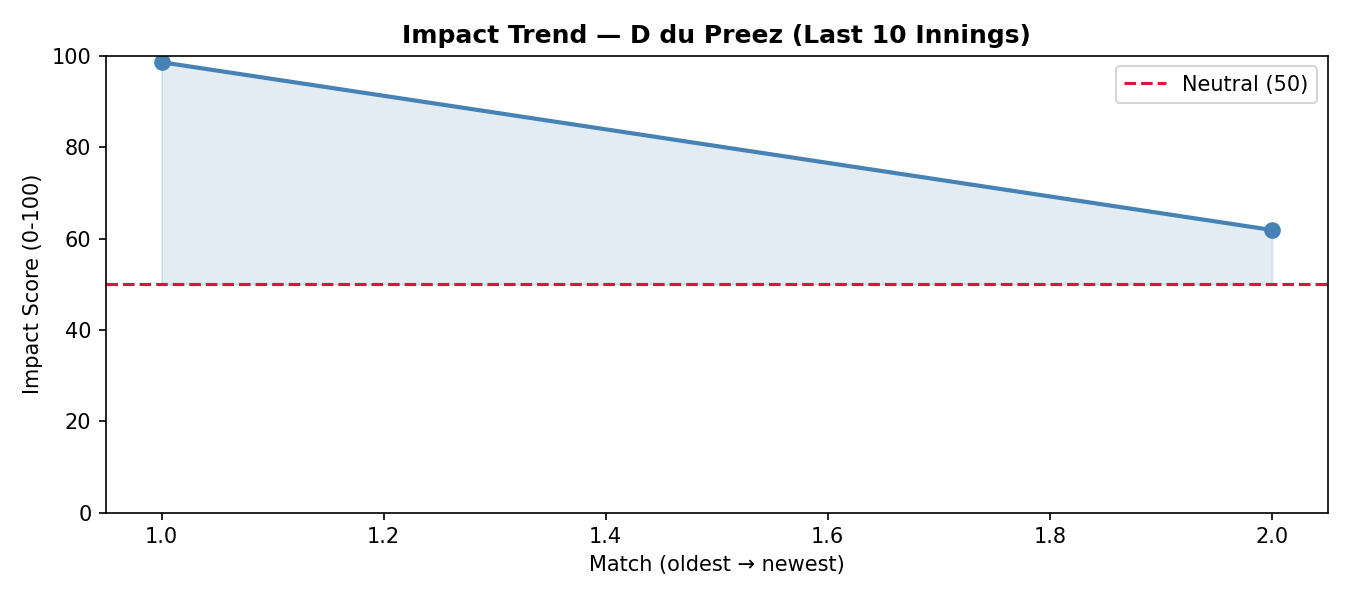
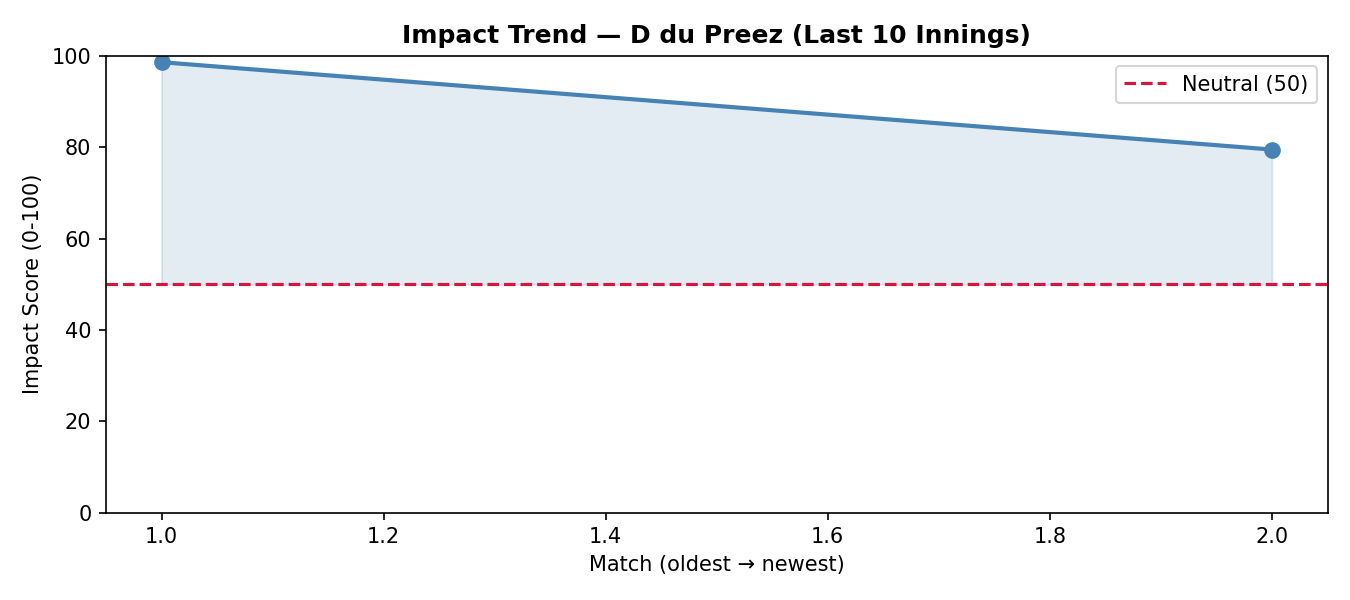
fixed ML

Changed region(s): [[0.1244, 0.09, 0.9644, 0.39]]

diff --git a/ML/src/performance.py b/ML/src/performance.py
@@ -82,26 +82,25 @@ def compute_performance(df):
             bat_df['runs'] / np.maximum(bat_df['balls_faced'], 1)
         ) * 100
 
-        bat_df['runs_contribution'] = (
-            bat_df['runs'] / bat_df['innings_total']
-        ).fillna(0)
-
-        bat_df['SR_Impact']       = np.clip(bat_df['strike_rate'] / 130, 0, 2)
-        bat_df['Boundary_Impact'] = np.clip(bat_df['boundaries']  / 5,   0, 2)
+        # Normalize metrics so an "average" performance equals around 1.0
+        # Average runs ~ 30, average SR ~ 135, average boundaries ~ 4
+        bat_df['Runs_Impact']     = np.clip(bat_df['runs'] / 30, 0, 2.5)
+        bat_df['SR_Impact']       = np.clip(bat_df['strike_rate'] / 135, 0, 2.5)
+        bat_df['Boundary_Impact'] = np.clip(bat_df['boundaries'] / 4, 0, 2.5)
 
         # FIX 7: fill NaN before weighted sum
-        bat_df[['runs_contribution', 'SR_Impact', 'Boundary_Impact']] = (
-            bat_df[['runs_contribution', 'SR_Impact', 'Boundary_Impact']].fillna(0)
+        bat_df[['Runs_Impact', 'SR_Impact', 'Boundary_Impact']] = (
+            bat_df[['Runs_Impact', 'SR_Impact', 'Boundary_Impact']].fillna(0)
         )
 
         bat_df['Performance_bat'] = (
-            0.4 * bat_df['runs_contribution']
+            0.5 * bat_df['Runs_Impact']
             + 0.3 * bat_df['SR_Impact']
-            + 0.3 * bat_df['Boundary_Impact']
+            + 0.2 * bat_df['Boundary_Impact']
         )
 
         bat_df['BatWorkloadFactor'] = np.clip(
-            0.4 + 0.6 * (bat_df['balls_faced'] / 30), 0, 1
+            0.4 + 0.6 * (bat_df['balls_faced'] / 20), 0, 1.2
         )
         bat_df['Performance_bat'] = np.clip(
             bat_df['Performance_bat'] * bat_df['BatWorkloadFactor'], 0, 5

diff --git a/ML/api_server.py b/ML/api_server.py
@@ -120,7 +120,8 @@ def leaderboards(season: str = "All Time"):
                  Last_Match=("Impact_Score", "last"),
                  Matches=("match_id","nunique"),
                  Avg_Bat=("perf_bat","mean"),
-                 Avg_Bowl=("perf_bowl","mean"))
+                 Avg_Bowl=("perf_bowl","mean"),
+                 role=("role", "first"))
             .round(2)
             .reset_index())
             
